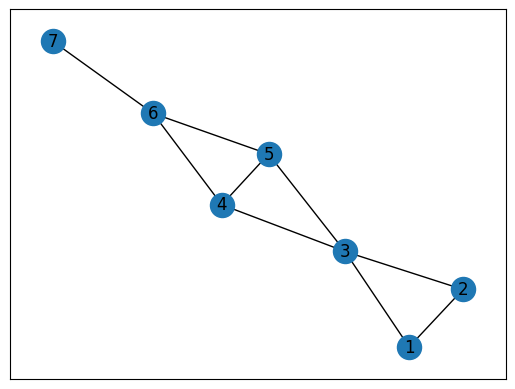
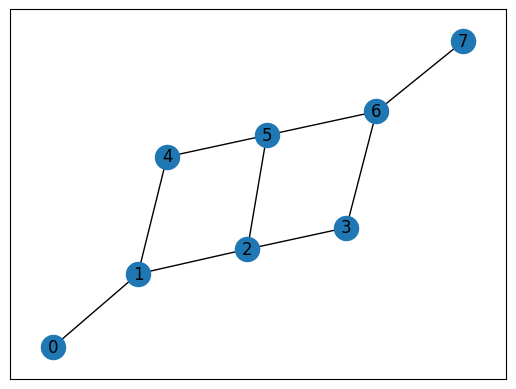
used correct solver

diff --git a/change_sampler.py b/change_sampler.py
@@ -21,6 +21,8 @@ import dwave_networkx as dnx
 # Import dwave.system packages for the QPU
 from dwave.system import DWaveSampler, EmbeddingComposite
 
+from dwave.samplers import SimulatedAnnealingSampler
+
 # Import matplotlib.pyplot to draw graphs on screen
 import matplotlib
 matplotlib.use("agg")
@@ -31,7 +33,7 @@ def set_sampler():
     '''Returns a simulated annealing sampler'''
     
     ## TODO:  Import packages and add sampler here
-    sampler = EmbeddingComposite(DWaveSampler())
+    sampler = SimulatedAnnealingSampler( )
     
     return sampler 
 

diff --git a/change_problem.py b/change_problem.py
@@ -39,8 +39,8 @@ def create_graph():
     # Create empty graph
     G = nx.Graph()
 
-    G.add_edges_from([(1, 2), (1, 3), (2, 3), (3, 4), (3, 5), 
-                        (4, 5), (4, 6), (5, 6), (6, 7)])
+    G.add_edges_from([(1, 2), (1, 4), (1, 0), (5, 4), (2, 5), 
+                        (2, 3), (3, 6), (6, 7), (5, 6)])
 
     return G
 
